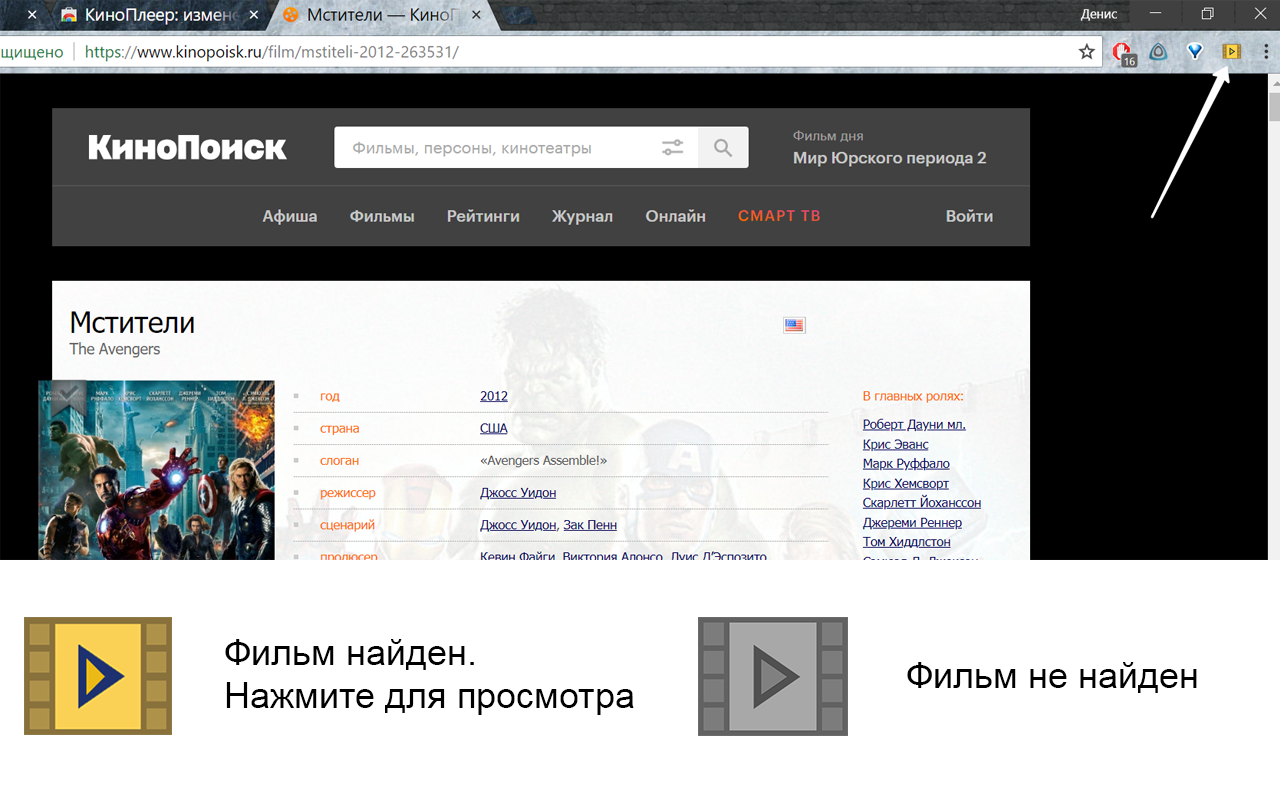
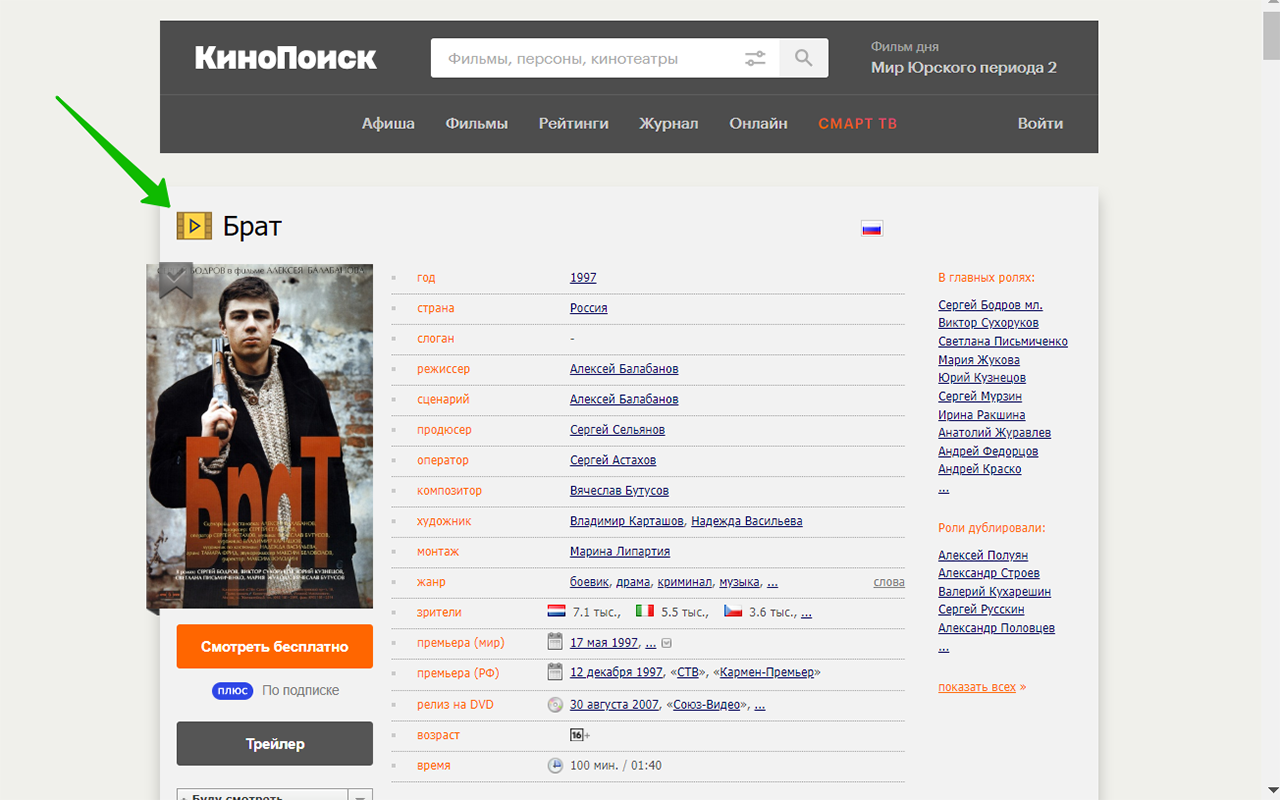
Button now on film page Removed unused permissions

diff --git a/KinoPlayer/js/content.js b/KinoPlayer/js/content.js
@@ -1,0 +1,45 @@
+
+var code = getCode(window.location.href);
+function getCode(url) {
+        var id = url.split("-").slice(-1)[0].slice(0, -1);
+        if (/^\d+$/.test(id) == false) {
+            return null;
+        }
+        var new_url = "https://cors.io/?http://moonwalk.co/moonwalk/search_as?sq=&kinopoisk_id=" + id + "&search_for=&search_year=&commit=%D0%9D%D0%B0%D0%B9%D1%82%D0%B8"
+        var xhr = new XMLHttpRequest();
+        xhr.open('GET', new_url, false);
+        xhr.send();
+        if (xhr.status == 200) {
+            var response_match = xhr.responseText.match(/moonwalk.pw\/(.*?)\/iframe/g)
+            if (response_match == null) {
+                return null;
+            } else {
+                var videoid = response_match.map(function(val) {
+                    return val.replace("/iframe", "")
+                })[0];
+                return videoid;
+            }
+        }
+}
+
+function buildPlayer(code) {
+    console.log(chrome.extension.getURL("pages/player.html"));
+    $.get(chrome.extension.getURL("pages/player.html"), function(data) {
+        document.getElementsByTagName('html')[0].innerHTML=data.replace("videocode", code);
+    });
+}
+
+window.onload = function() {
+    $("#headerFilm h1").css("display","inline")
+    var active = chrome.extension.getURL("icons/active.png");
+    var inactive = chrome.extension.getURL("icons/inactive.png");
+    if(code != null){
+        var r= $('<a id="show_player" style="float: left; margin-right:10px;cursor: pointer;"><img src="'+active+'" align="middle" alt="Смотреть онлайн" style="width:32px;height:32px;"></a>');
+        $("#headerFilm").append(r);
+        $("#show_player").click(function(){buildPlayer(code);});
+    }else{
+        var r= $('<a id="show_player" style="float: left; margin-right:10px;cursor: pointer;"><img src="'+inactive+'" align="middle" alt="Фильм не найден" style="width:32px;height:32px;"></a>');
+        $("#headerFilm").append(r);
+        $("#show_player").click(function(){alert("Фильм не найден");});
+    }
+};
